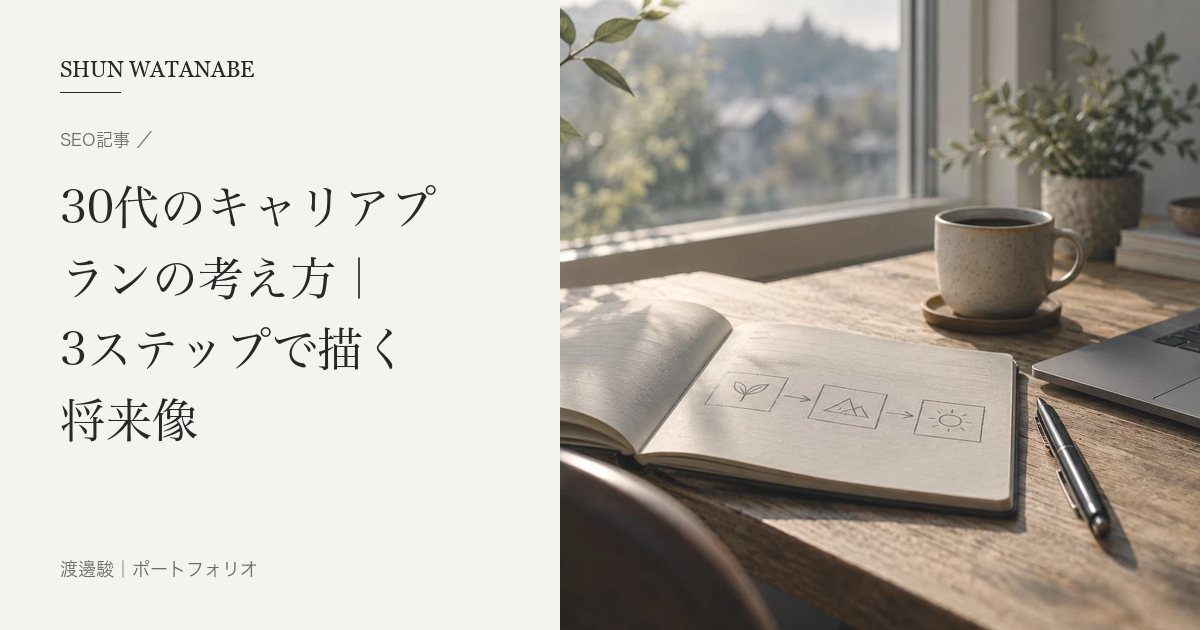
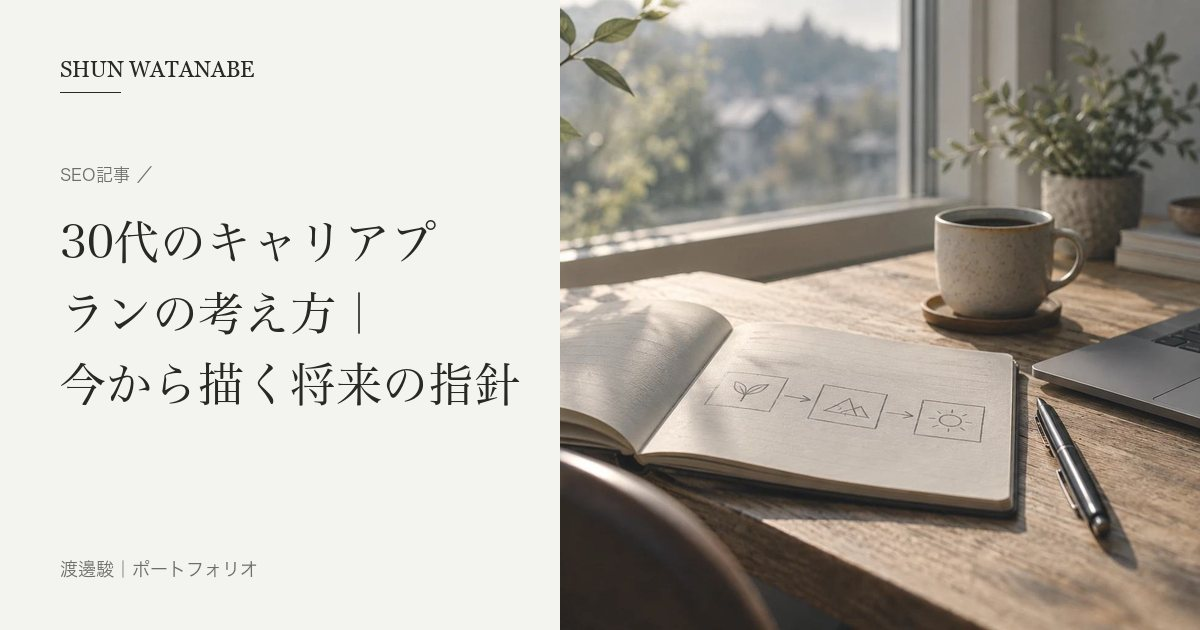
Add files via upload

Changed region(s): [[0.0308, 0.2714, 0.4317, 0.6937], [0.0308, 0.2111, 0.1233, 0.2413]]

diff --git a/article/career-plan-30s.html b/article/career-plan-30s.html
@@ -3,8 +3,8 @@
 <head>
 <meta charset="UTF-8">
 <meta name="viewport" content="width=device-width, initial-scale=1.0">
-<title>30代のキャリアプランの考え方｜3ステップで描く将来像 - 渡邊駿 執筆サンプル</title>
-<meta name="description" content="30代のキャリアプランの考え方を解説します。経験の棚卸し、理想の将来像の描き方、現在地とのギャップの整理という3ステップで、今後の方向性を考える手順を紹介します。">
+<title>30代のキャリアプランの考え方｜今から描く将来の指針 - 渡邊駿 執筆サンプル</title>
+<meta name="description" content="30代のキャリアプランの考え方を解説します。経験の棚卸しや理想の将来像の描き方、現在地とのギャップの整理まで、無理なく将来を考えるための具体的なステップをわかりやすく紹介します。">
 <link rel="stylesheet" href="../site.css">
 <link rel="stylesheet" href="../article.css">
 <!-- share:start -->
@@ -12,8 +12,8 @@
 <link rel="canonical" href="https://watanabeshun0828-cell.github.io/watachan-works-lp/article/career-plan-30s.html">
 <meta property="og:type" content="article">
 <meta property="og:site_name" content="渡邊駿｜ポートフォリオ">
-<meta property="og:title" content="30代のキャリアプランの考え方｜3ステップで描く将来像 - 渡邊駿 執筆サンプル">
-<meta property="og:description" content="30代のキャリアプランの考え方を解説します。経験の棚卸し、理想の将来像の描き方、現在地とのギャップの整理という3ステップで、今後の方向性を考える手順を紹介します。">
+<meta property="og:title" content="30代のキャリアプランの考え方｜今から描く将来の指針 - 渡邊駿 執筆サンプル">
+<meta property="og:description" content="30代のキャリアプランの考え方を解説します。経験の棚卸しや理想の将来像の描き方、現在地とのギャップの整理まで、無理なく将来を考えるための具体的なステップをわかりやすく紹介します。">
 <meta property="og:url" content="https://watanabeshun0828-cell.github.io/watachan-works-lp/article/career-plan-30s.html">
 <meta property="og:image" content="https://watanabeshun0828-cell.github.io/watachan-works-lp/img/og/article-career-plan-30s.jpg">
 <meta property="og:image:width" content="1200">
@@ -39,8 +39,8 @@
 <header class="head">
   <div class="wrap">
     <span class="eyebrow"><span class="nb">SEO記事 ／</span><span class="nb">想定キーワード「30代 キャリアプラン 考え方」</span></span>
-    <h1><span class="nb">30代のキャリアプランの</span><span class="nb">考え方｜</span><span class="nb">3ステップで描く</span><span class="nb">将来像</span></h1>
-    <p class="meta"><span>約3,300字</span><span>PREP法・見出し構成込み</span><span>執筆：渡邊 駿</span></p>
+    <h1><span class="nb">30代のキャリアプランの</span><span class="nb">考え方｜</span><span class="nb">今から描く</span><span class="nb">将来の指針</span></h1>
+    <p class="meta"><span>約2,900字</span><span>PREP法・見出し構成込み</span><span>執筆：渡邊 駿</span></p>
   </div>
 </header>
 
@@ -56,79 +56,93 @@
     <figure>
       <img src="img/office-worker-thinking-career.jpg" alt="キャリアについて考えるビジネスパーソン">
     </figure>
-    <p>30代は、20代の頃とは違う視点でキャリアプランを見つめ直したい時期です。その背景には、求められる役割の変化と、ライフイベントとの両立があります。仕事にも生活にも変化が重なるこの時期に、一度立ち止まって考えておくと、その後の選択に迷いにくくなります。次の2つの理由から、順に見ていきましょう。</p>
+
+    <p>30代は、20代の頃とは違う視点でキャリアプランを考えるべき時期です。求められる役割が変わり、ライフイベントとの両立も必要になるためです。実務を覚える段階を終え、後輩の指導やチーム全体の成果に責任を持つ立場へと移行していきます。同時に、結婚や子育て、親の介護といった暮らしの変化とも向き合う時期です。20代の感覚のまま突き進むのではなく、この時期ならではの視点で将来を整理し直すことが求められます。</p>
 
     <h3>20代とは求められる役割が変わるから</h3>
-    <p>30代になると、20代の頃とは職場で求められる役割が変わります。実務を覚える段階から、後輩の育成やチームの成果に責任を持つ段階へ移るためです。たとえば、20代では与えられた業務をこなすだけでよくても、30代では部下の育成やプロジェクト全体の進行管理を任されるケースが少なくありません。このように役割が変わるからこそ、これまでの延長線上ではなく、あらためてキャリアの方向性を考える必要があります。</p>
+
+    <p>30代になると、20代の頃とは職場で求められる役割が変わります。実務を覚える段階から、後輩の指導やチームの成果に責任を持つ段階へと移行していくためです。これまでは与えられた業務をこなすだけでよかった人もいます。そうした人も、部下の育成やプロジェクト全体の進行管理を任されるようになるケースは少なくありません。役割が変化する30代は、これまでの延長線上ではなく、あらためてキャリアの方向性を考える必要があります。</p>
 
     <h3>ライフイベントとの両立を考える時期だから</h3>
-    <p>30代は、結婚や出産、親の介護など、ライフイベントとキャリアの両立を考える時期でもあります。これらのイベントは働き方や収入に直接影響し、仕事だけを切り離して考えることが難しくなるからです。実際に、子育てをしながら働ける環境を求めて転職を検討したり、親のそばで働けるよう勤務地を見直したりする人もいます。だからこそ、30代のキャリアプランでは、仕事だけでなく生活全体を見据えて考えることが欠かせません。</p>
 
-    <h2>30代のキャリアプランの考え方｜3つのステップ</h2>
+    <p>30代は、結婚や出産、親の介護など、ライフイベントとキャリアの両立を考える時期でもあります。こうした出来事は働き方や収入への希望に直接影響するため、仕事だけを切り離して考えることが難しくなるからです。実際に、子育てと両立できる働き方を求めて転職を検討したり、親のそばで働けるよう勤務地を見直したりする人もいます。30代のキャリアプランは、仕事だけでなく生活全体を見据えて考えることが必要です。</p>
+
+    <h2>30代のキャリアプランを考える3つのステップ</h2>
     <figure>
       <img src="img/career-planning-notebook.jpg" alt="ノートにキャリアの棚卸しを書き出す様子">
     </figure>
-    <p>30代のキャリアプランは、次の3つのステップで整理すると、進めやすくなります。いきなり将来像だけを思い描こうとすると、何から手をつければよいか分からなくなりがちです。そこで、今の自分を振り返り、理想を描き、その差を確認する順で進めます。</p>
+
+    <p>30代のキャリアプランを考える際は、次の3つのステップで整理していくとスムーズです。いきなり将来像だけを思い描こうとすると、何から手をつければよいか分からず止まってしまいがちです。まずは今の自分を振り返るところから始め、理想の姿を描きます。そのうえで現在地とのズレを確認するという順番で進めると、無理なく自分に合ったキャリアプランへつなげていけます。</p>
 
     <h3>これまでの経験・スキルを棚卸しする</h3>
-    <p>まず取り組みたいのは、これまでの経験やスキルを棚卸しすることです。自分が何をしてきたのかを客観的に把握しないと、次にどんな方向へ進むべきかを判断できません。担当してきた業務内容や成果を紙に書き出してみましょう。書き出した内容を「人にどう役立ったか」という視点で整理し直すと、自分の強みが見えやすくなります。棚卸しは地味な作業ですが、キャリアプランを考える土台になります。</p>
+
+    <p>まず取り組みたいのは、これまでの経験やスキルを棚卸しすることです。自分が何をしてきたのかを客観的に把握しないと、次にどんな方向へ進むべきかを判断できないからです。担当してきた業務内容や成果を紙に書き出してみましょう。そこから「人にどう役立ったか」という視点で整理し直すと、自分の強みが見えやすくなります。棚卸しは地味な作業ですが、キャリアプランを考える土台になります。</p>
 
     <h3>理想の将来像を具体的に描く</h3>
-    <p>次に、5年後・10年後にどうなっていたいかという理想の将来像を、具体的に描きます。漠然とした「今より良くなりたい」という思いだけでは、日々の行動に落とし込めません。「役職に就きたい」ではなく「5年後にはチームを持ち、後輩の育成に関わっていたい」というように言語化してみましょう。その場面が具体的にイメージできる表現にするのがポイントです。具体的に描くほど、そこに向かうための行動も明確になります。</p>
+
+    <p>次に、5年後・10年後にどうなっていたいか、理想の将来像を具体的に描きます。漠然とした「今より良くなりたい」という思いだけでは、日々の行動に落とし込めないためです。「役職に就きたい」ではなく「◯年後にはチームを持ち、後輩の育成に関わっていたい」というように言語化してみましょう。状況が思い浮かぶ形にするのがポイントです。具体的に描くほど、そこに向かうための行動も見えやすくなります。</p>
 
     <h3>現在地とのギャップを整理する</h3>
-    <p>最後に、理想の将来像と今の自分との間にあるギャップを整理します。違いが明確になって初めて、何を学び、何を経験すればよいかが具体的になるからです。たとえば、マネジメント経験が不足しているなら、今の職場で小さなチームを任せてもらえないか相談してみましょう。このように、ギャップの埋め方まで考えることが重要です。ギャップを整理できれば、キャリアプランを具体的な行動に変えられます。</p>
+
+    <p>最後に、理想の将来像と今の自分との間にあるギャップを整理します。ギャップが明確になって初めて、何を学び、何を経験すればよいかが具体的になるからです。マネジメント経験が不足しているなら、今の職場で小さなチームを任せてもらえないか相談してみましょう。このように、埋め方まで考えることが重要です。ギャップの整理は、キャリアプランを行動に変えるための最後のステップです。</p>
 
     <h2>30代のキャリアプランの具体例（パターン別）</h2>
     <figure>
       <img src="img/career-plan-pattern-example.jpg" alt="複数のキャリアの選択肢をイメージした図">
     </figure>
-    <p>理想の将来像を描くときは、実際にどんなパターンがあるのかを知っておくと考えやすくなります。ここでは代表的な3つのパターンを紹介します。どれが正解ということはありません。自分の価値観に近いものがどれかを考えながら、読んでみてください。</p>
+
+    <p>理想の将来像を描くときは、実際にどんなパターンがあるのかを知っておくと考えやすくなります。ここでは代表的な3つの方向性を紹介します。誰かの正解をそのまま当てはめる必要はありません。ただ、他の人がどんな軸でキャリアを考えているかを知ることで、自分に合った方向性を見つけるヒントになります。自分の価値観に近いものがどれか、考えながら読んでみてください。</p>
 
     <h3>管理職としてマネジメントを極めるパターン</h3>
-    <p>チームや部下を持ち、組織の成果を最大化することを目指すパターンです。これまでの実務経験を活かしながら、人を育てる力や、目標達成に向けて周囲を動かす力を伸ばしていく道になります。プレイヤーとして成果を出す力に加えて、人をまとめる力や意思決定の力も求められます。組織全体を動かす立場を目指したい人に向いています。</p>
 
-    <h3>専門性を深めてスペシャリストを目指すパターン</h3>
-    <p>特定の分野で専門知識やスキルを深め、その道のプロとして評価されることを目指します。マネジメントよりも、実務そのものの質を高めたい人に向いています。人をまとめる役割よりも、自分のスキルを磨き続けることに重きを置きたい人に合っています。専門性が高まるほど、社内外から相談を受ける機会が増えていくのも特徴です。</p>
+    <p>チームや部下を持ち、組織の成果を最大化する方向を目指すパターンです。これまでの実務経験を活かしながら、人を育てることや、目標達成に向けて周囲を動かす力を伸ばしていく道になります。プレイヤーとして成果を出す力に加えて、人をまとめる力や意思決定の力が求められるようになります。そのぶん、視野の広さも試されるでしょう。将来的に組織全体を動かす立場を目指したい人に向いています。</p>
+
+    <h3>専門性を活かしてスペシャリストを目指すパターン</h3>
+
+    <p>特定の分野における専門知識やスキルを深め、その道のプロフェッショナルとして評価される方向を目指すパターンです。マネジメントよりも、実務そのものの質を高めたい人に向いています。管理職を目指す道と違い、人をまとめる役割より自分自身のスキルを磨き続けることに重きを置きたい人に合っています。専門性が高まるほど、社内外からの相談や指名が増えていくのも特徴です。</p>
 
     <h3>ワークライフバランス重視で働き方を変えるパターン</h3>
-    <p>昇進や専門性の追求よりも、仕事と家庭・自分の時間との両立を優先するパターンです。勤務時間や働き方の柔軟性を軸に、自分に合ったキャリアを築いていきます。子育てや介護といったライフイベントに合わせて、働き方そのものを見直したい人に向いています。</p>
+
+    <p>昇進や専門性の追求よりも、家庭や自分の時間との両立を優先する方向を目指すパターンです。勤務時間や働き方の柔軟性を軸に、無理のないキャリアを築いていきます。子育てや介護などライフステージの変化に合わせて、働き方そのものを見直したい人に向いている道です。無理に成果を追い求めず、長く働き続けられることを重視するのも一つの選択肢です。</p>
 
     <h2>キャリアプランを立てることのメリット</h2>
     <figure>
       <img src="img/career-plan-merit.jpg" alt="計画を立てて前向きに取り組む様子">
     </figure>
-    <p>キャリアプランは、立てて終わりではなく、日々の選択や節目の判断で使ってこそ意味があります。メリットは大きく2つあります。日々の仕事で迷ったときの判断軸になることと、転職や異動の場面で自分の強みを伝えやすくなることです。</p>
 
-    <h3>日々の判断に迷いにくくなる</h3>
-    <p>キャリアプランを立てておくと、日々の仕事の選び方に迷いが少なくなります。その理由は、目の前の業務や転職の機会に対して「これは自分の将来像に近づく選択か」という基準で判断できる点にあります。新しいプロジェクトへの参加を打診されたときも、将来像に照らして引き受けるかどうかを決めやすくなります。</p>
+    <p>キャリアプランを立てておくと、日々の仕事の選び方に迷いが少なくなります。目の前の業務や転職の機会に対して「これは自分の将来像に近づく選択か」という基準で判断できるようになるためです。また、いざ転職や異動を考えるタイミングでも、自分の希望や強みをすぐに言葉にできるという利点もあります。</p>
 
-    <h3>転職・異動時に強みを伝えやすくなる</h3>
-    <p>また、いざ転職や異動を考えるときにも、自分の希望や強みをすぐに言葉にできる点がメリットです。面接で志望理由を聞かれた場面でも、棚卸しした経験をもとに自分の言葉で説明しやすくなります。</p>
+    <p>一方で、計画に縛られすぎると、目の前に来た良い機会を「プランにないから」と見送ってしまうデメリットもあります。キャリアプランはあくまで判断の軸であって、絶対に従うべきルールではないと捉えておくことが大切です。</p>
 
     <h2>キャリアプランを考える際に意識したいポイント</h2>
     <figure>
       <img src="img/career-review-calendar.jpg" alt="定期的にキャリアプランを見直すイメージ">
     </figure>
-    <p>キャリアプランは、立てたあとの向き合い方で、役に立つかどうかが変わります。意識したいのは、次の2つです。1つは、決めた計画に縛られすぎないこと。もう1つは、状況に合わせて定期的に見直すことです。</p>
 
-    <h3>1つの正解にこだわりすぎない</h3>
-    <p>キャリアプランを考える際は、1つの正解にこだわりすぎないことが大切です。働き方や社会の状況は変化し続け、最初に決めた計画が最後まで正しいとは限らないからです。当初は管理職を目指していたものの、専門性を極める道の方が自分に合っていると気づく人もいます。このように途中で方向転換するケースも珍しくありません。正解を探すより、その時々で納得できる選択を積み重ねていく姿勢の方が、長い目で見て現実的です。</p>
+    <p>キャリアプランを考えるうえで、いくつか意識しておきたいポイントもあります。せっかく時間をかけて考えたキャリアプランも、向き合い方を誤ることも珍しくありません。途中で行き詰まったり、変化についていけなくなったりすることも起こり得ます。ここでは、長く付き合っていくキャリアプランを見直すときに、意識しておきたい2つの視点を紹介します。</p>
+
+    <h3>一つの正解にこだわりすぎない</h3>
+
+    <p>キャリアプランは、一つの正解にこだわりすぎないことが大切です。働き方や社会の状況は変化し続けるため、最初に決めた計画が最後まで正しいとは限らないからです。当初は管理職を目指していたものの、専門性を極める道の方が自分に合っていると気づく人もいます。そうして途中で方向転換するケースも珍しくありません。正解を探すより、その時々で納得できる選択を積み重ねていく姿勢の方が、長い目で見て現実的です。</p>
 
     <h3>定期的に見直す機会を持つ</h3>
-    <p>一度立てたキャリアプランは、定期的に見直しましょう。状況やライフイベントが変われば、当初描いていた将来像も変わっていくものです。半年に一度、自分の経験や気持ちの変化を振り返ってみましょう。必要であればプランを微調整する習慣を持つと、軌道修正がしやすくなります。見直しを前提にしておけば、プラン通りに進まなくても焦らずに対応できます。</p>
+
+    <p>一度作ったキャリアプランは、定期的に見直す機会を持つようにしましょう。状況やライフステージが変われば、当初描いていた将来像も自然と変わっていくからです。半年に一度、自分の経験や気持ちの変化を振り返ってみましょう。必要であればプランを微調整する習慣を持つと、無理なくキャリアを更新していけます。見直しを前提にしておくことで、プラン通りに進まなくても焦らずに向き合えます。</p>
 
     <h2>まとめ</h2>
     <figure>
       <img src="img/career-consultation-online.jpg" alt="オンラインでキャリア相談をする様子">
     </figure>
-    <p>30代のキャリアプランを考えるうえで大切なのは、次の3つです。</p>
+
+    <p>30代のキャリアプランを考えるうえで大切なのは、次の3点です。</p>
+
     <ul>
       <li>これまでの経験・スキルを棚卸しすること</li>
       <li>理想の将来像を具体的に描くこと</li>
       <li>現在地とのギャップを整理すること</li>
     </ul>
-    <p>1つの正解にこだわらず、定期的に見直しながらキャリアプランを育てていきましょう。30代の今こそ、自分なりのキャリアプランを描いてみましょう。</p>
+
+    <p>一つの正解にこだわらず、定期的に見直しながら育てていく感覚を持ちましょう。30代からでも無理なく将来のキャリアプランを描いていくことができます。</p>
 
     <div class="cta-box">
       <span class="tag">架空サービスへのCTA（サンプル）</span>
@@ -137,7 +151,7 @@
 
     <div class="outro">
       <h2>この記事について</h2>
-      <p>想定キーワード「30代 キャリアプラン 考え方」で検索上位を狙う構成で執筆しました。競合記事のリサーチから見出し構成、本文（PREP法）、まとめ、CTA、メタディスクリプションまで一貫して担当しています。コピペチェックツール（CopyContentDetector）で類似度・一致率とも「良好」判定を確認済みです。</p>
+      <p>想定キーワード「30代 キャリアプラン 考え方」で検索上位を狙う構成で執筆しました。競合記事のリサーチから見出し構成、本文（PREP法）、まとめ、CTA、メタディスクリプションまで一貫して担当しています。</p>
       <p>同じ流れで、ご依頼のキーワード・トンマナに合わせた記事を執筆します。</p>
       <a class="btn" href="../writer.html#contact">執筆のご相談はこちら</a>
     </div>

diff --git a/writer.html b/writer.html
@@ -82,7 +82,7 @@
     <details class="more reveal">
       <summary>その他の記事サンプル（5本）</summary>
       <ul>
-        <li><a href="article/career-plan-30s.html"><span class="g">キャリア・働き方／SEO記事・約3,300字</span><span class="t">30代のキャリアプランの考え方｜3ステップで描く将来像</span></a></li>
+        <li><a href="article/career-plan-30s.html"><span class="g">キャリア・働き方／SEO記事・約2,900字</span><span class="t">30代のキャリアプランの考え方｜今から描く将来の指針</span></a></li>
         <li><a href="article/first-rental-contract-tips.html"><span class="g">住まい・暮らし／SEO記事・約3,900字</span><span class="t">初めての賃貸契約で注意すべきポイントを解説</span></a></li>
         <li><a href="article/executive-asset-review.html"><span class="g">資産形成・経営者向け／コラム・約2,600字</span><span class="t">50代を迎える前に、経営者が「資産の設計図」を見直すべき理由</span></a></li>
         <li><a href="article/long-distance-relationship-tips.html"><span class="g">恋愛・結婚／SEO記事・約3,400字</span><span class="t">遠距離恋愛を継続するコツ｜長続きするカップルの工夫</span></a></li>
